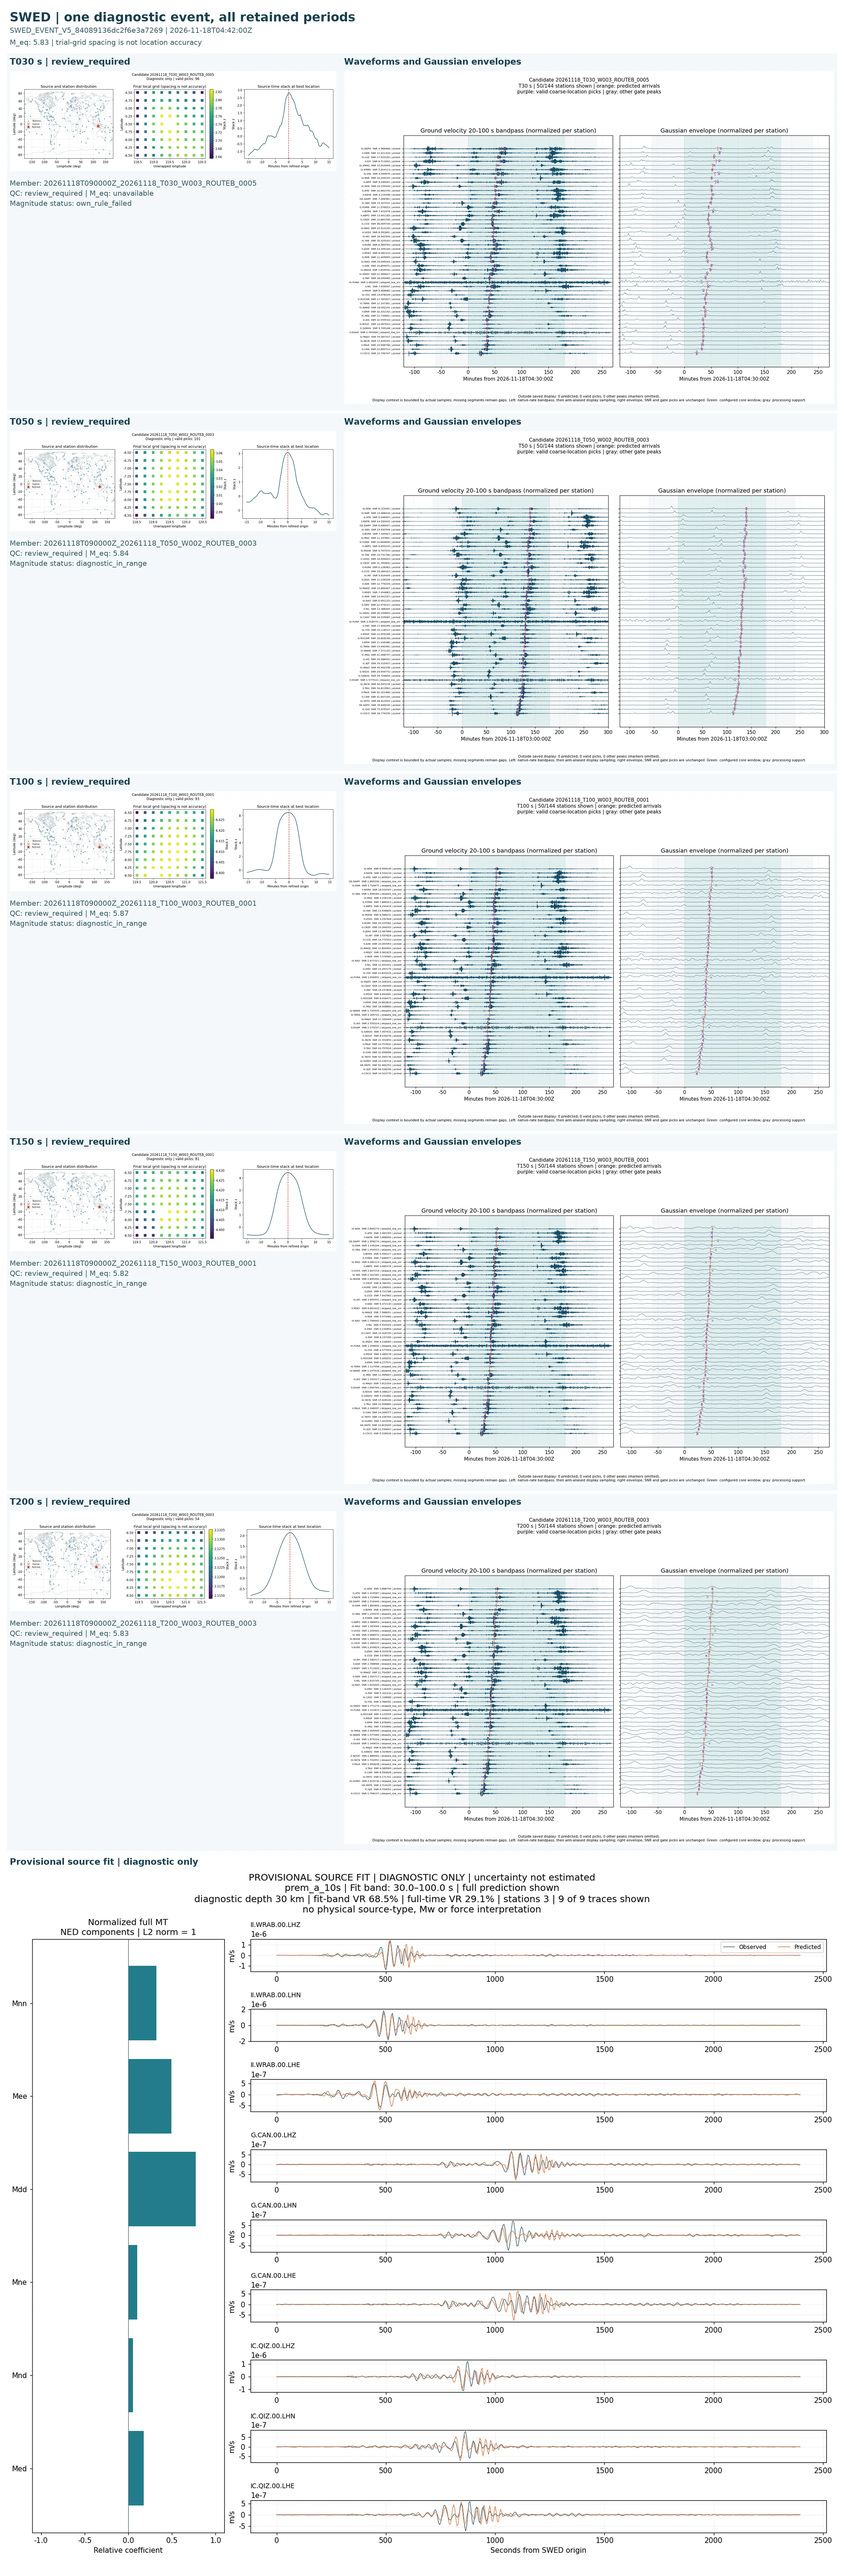
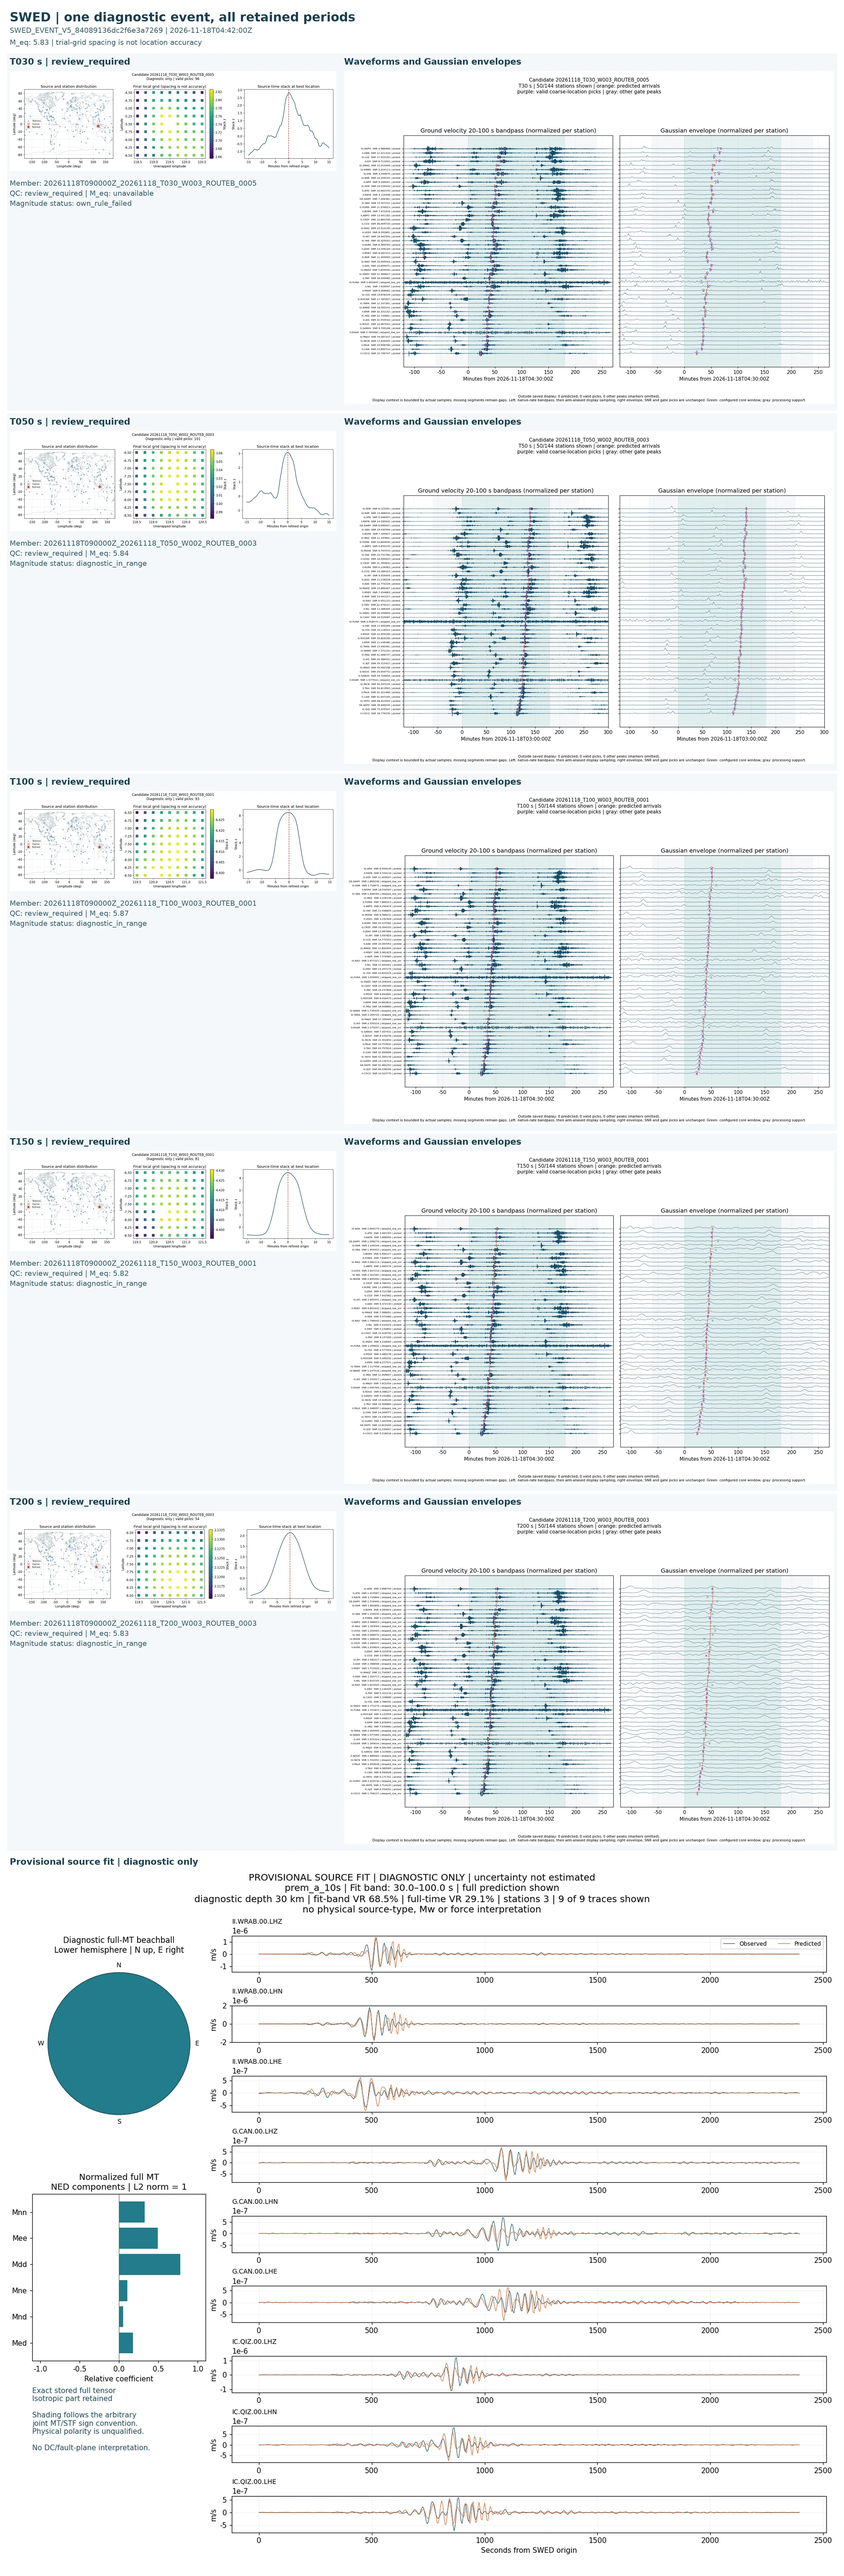
Update Plan B diagnostic monitor 2026-11-21T02:03:53Z

Changed region(s): [[0.0312, 0.7471, 0.9658, 0.9961]]

diff --git a/app.js b/app.js
@@ -17,7 +17,7 @@ function periodLabel(r){return periodsOf(r).join(' / ')+' s';}
 function statusLabel(r){return eventNames[r.status]||r.status||'未提供状态';}
 function criteriaLabel(r){return {legacy_unreassessed:'历史结果 · 未按当前标准重评',local_v5:'本地标准已通过'}[r.criteria_status]||'';}
 function mechanismLabel(r){const m=r.mechanism;if(!m||m.diagnostic_only!==true||m.physical_interpretation_allowed!==false)return '';return {disabled:'机制处理未启用',not_scheduled:'机制未评估（启用前事件）',pending:'机制待处理',queued:'机制排队中',running:'机制处理中',diagnostic_complete:m.figure_ready?'试验性机制解 · 诊断结果':'机制图件暂不可用',blocked:'机制资料不足',failed:'机制处理失败',stale:'机制未评估',superseded:'机制结果待更新',cancelled:'机制任务已取消'}[m.status]||'机制状态暂不可用';}
-function mechanismDetail(r){const label=mechanismLabel(r);if(!label)return '';const m=r.mechanism;return label+(m.status==='diagnostic_complete'&&m.figure_ready?'。拟合和归一化矩张量见同一张事件综合图；不据此认定物理源类型、Mw 或力。':'。检测定位结果继续保留。');}
+function mechanismDetail(r){const label=mechanismLabel(r);if(!label)return '';const m=r.mechanism;return label+(m.status==='diagnostic_complete'&&m.figure_ready?'。震源球、拟合和归一化矩张量见同一张事件综合图；不据此认定物理源类型、Mw 或力。':'。检测定位结果继续保留。');}
 const displayTimeZone='Asia/Shanghai',displayTimeZoneLabel='北京时间（UTC+8）';
 const displayTimeFormatter=new Intl.DateTimeFormat('zh-CN',{timeZone:displayTimeZone,numberingSystem:'latn',year:'numeric',month:'2-digit',day:'2-digit',hour:'2-digit',minute:'2-digit',second:'2-digit',hourCycle:'h23'});
 function beijingTimeParts(value){if(value===undefined||value===null||value==='')return null;const date=new Date(value);if(!Number.isFinite(date.getTime()))return null;const parts=Object.fromEntries(displayTimeFormatter.formatToParts(date).map(part=>[part.type,part.value]));return {date:`${parts.year}-${parts.month}-${parts.day}`,time:`${parts.hour}:${parts.minute}:${parts.second}`};}
@@ -106,10 +106,10 @@ function renderMap(records){const valid=records.filter(r=>Number.isFinite(r.long
 
 function renderFigures(r){
  $('detail-images').replaceChildren();const sources=(r.figures||[]).filter(src=>typeof src==='string'&&/^events\/[A-Za-z0-9_.\/-]+$/.test(src)&&!src.includes('..')).slice(0,1);
- for(const src of sources){const figure=node('figure'),caption=r.mechanism?.status==='diagnostic_complete'&&r.mechanism?.figure_ready?'事件综合图：各周期定位、波形与试验性机制拟合':'事件综合图：各周期定位与波形',a=node('a');a.href=src;a.target='_blank';a.rel='noopener';const im=node('img');im.src=src;im.alt=caption+' · '+r.id;im.loading='lazy';im.onerror=()=>{im.hidden=true;figure.append(node('p','图件加载失败，请稍后重试。','image-error'));};a.append(im);figure.append(node('figcaption',caption+' · 点击图片查看原图'),a);$('detail-images').append(figure);}
+ for(const src of sources){const figure=node('figure'),caption=r.mechanism?.status==='diagnostic_complete'&&r.mechanism?.figure_ready?'事件综合图：各周期定位、波形与试验性震源球及机制拟合':'事件综合图：各周期定位与波形',a=node('a');a.href=src;a.target='_blank';a.rel='noopener';const im=node('img');im.src=src;im.alt=caption+' · '+r.id;im.loading='lazy';im.onerror=()=>{im.hidden=true;figure.append(node('p','图件加载失败，请稍后重试。','image-error'));};a.append(im);figure.append(node('figcaption',caption+' · 点击图片查看原图'),a);$('detail-images').append(figure);}
  if(!sources.length)$('detail-images').append(node('p','本事件综合图暂不可用，请稍后刷新。'));
 }
-function selectEventFigure(entry){$('figure-title').textContent=entry.mechanism?.status==='diagnostic_complete'&&entry.mechanism?.figure_ready?'事件综合图 · 全部周期与试验性机制拟合':'事件综合图 · 全部周期定位与波形';$('figure-note').textContent='一个事件一张综合图，各周期结果分别列示。页面时间为北京时间（UTC+8）；图内时间轴按图中 UTC 标注。点击图片可在新页面查看原图。';renderFigures(entry);}
+function selectEventFigure(entry){$('figure-title').textContent=entry.mechanism?.status==='diagnostic_complete'&&entry.mechanism?.figure_ready?'事件综合图 · 全部周期与试验性震源球及机制拟合':'事件综合图 · 全部周期定位与波形';$('figure-note').textContent='一个事件一张综合图，各周期结果分别列示。页面时间为北京时间（UTC+8）；图内时间轴按图中 UTC 标注。点击图片可在新页面查看原图。';renderFigures(entry);}
 function renderOrbitAction(target,decision,label){const box=node('p'),button=node('button',label);button.type='button';button.onclick=()=>{const payload={event_id:target.id,representative_member_id:target.representative_member_id,member_ids:reviewMemberIds(target),decision,note:'',reviewed_at:new Date().toISOString()};if(!persistReviews({...localReviews,[target.id]:payload}))return;button.disabled=true;const link=node('a','提交全站确认 ↗');link.target='_blank';link.rel='noopener';submissionLink(link,target,payload);box.append(node('span',' 已在本机暂存；'),link);updateBatchSubmission(true);};box.append(button);return box;}
 function renderWaveTrain(r){const section=$('wave-train-reference'),detail=$('wave-train-detail');if(!section||!detail)return;const notes=Array.isArray(r.wave_train_diagnostics)?r.wave_train_diagnostics:[];const orbit=r.orbit_association_v4,preferences=r.orbit_independent_display||[];section.hidden=!notes.length&&!orbit&&!preferences.length;detail.replaceChildren();if(orbit){detail.append(node('p','已关联长弧／绕圈重复'));for(const alias of orbit.aliases||[]){const source=(data.orbit_source_events||[]).find(e=>e.id===alias.source_event_id);if(!source)continue;detail.append(node('p',alias.phase+' 波列 · '+beijingTimeLabel(source.origin_time_utc)),renderOrbitAction(source,'keep_separate','恢复为独立显示'));}}for(const preference of preferences){const previous=sharedReviews[preference.review_event_id];detail.append(node('p',preference.stale?'已独立展示；原关联成员已更新，待核对。':'已按人工选择独立展示。'));if(previous?.decision==='keep_separate')detail.append(renderOrbitAction(historicalTarget(previous),'unreviewed','恢复自动关联'));}for(const note of notes){detail.append(node('p','此结果接近先前事件的对跖位置，需核对是否为同一地震沿长弧传播的面波。此提示未改变质量状态，也未自动移除结果。'));const earlier=(data.events||[]).find(e=>e.id===note.earlier_event_id);if(earlier){const button=node('button','查看先前事件 · '+beijingTimeLabel(earlier.origin_time_utc));button.type='button';button.onclick=()=>show(earlier);detail.append(button);}for(const p of note.periods||[]){const value=Number.isFinite(p.major_arc_absolute_residual_median_s)?`原模型 R2 对照：${p.station_count} 台，绝对到时残差中位数 ${p.major_arc_absolute_residual_median_s.toFixed(1)} 秒`:'原模型长弧对照暂不可用';detail.append(node('p',`T${p.period_s} s · ${value}`));}}}
 function show(r){if(!isEvent(r))return;$('detail-title').textContent=beijingTimeLabel(r.origin_time_utc)+' · 事件';openedEvent=r;renderUSGS(r);renderReview(r);renderWaveTrain(r);
